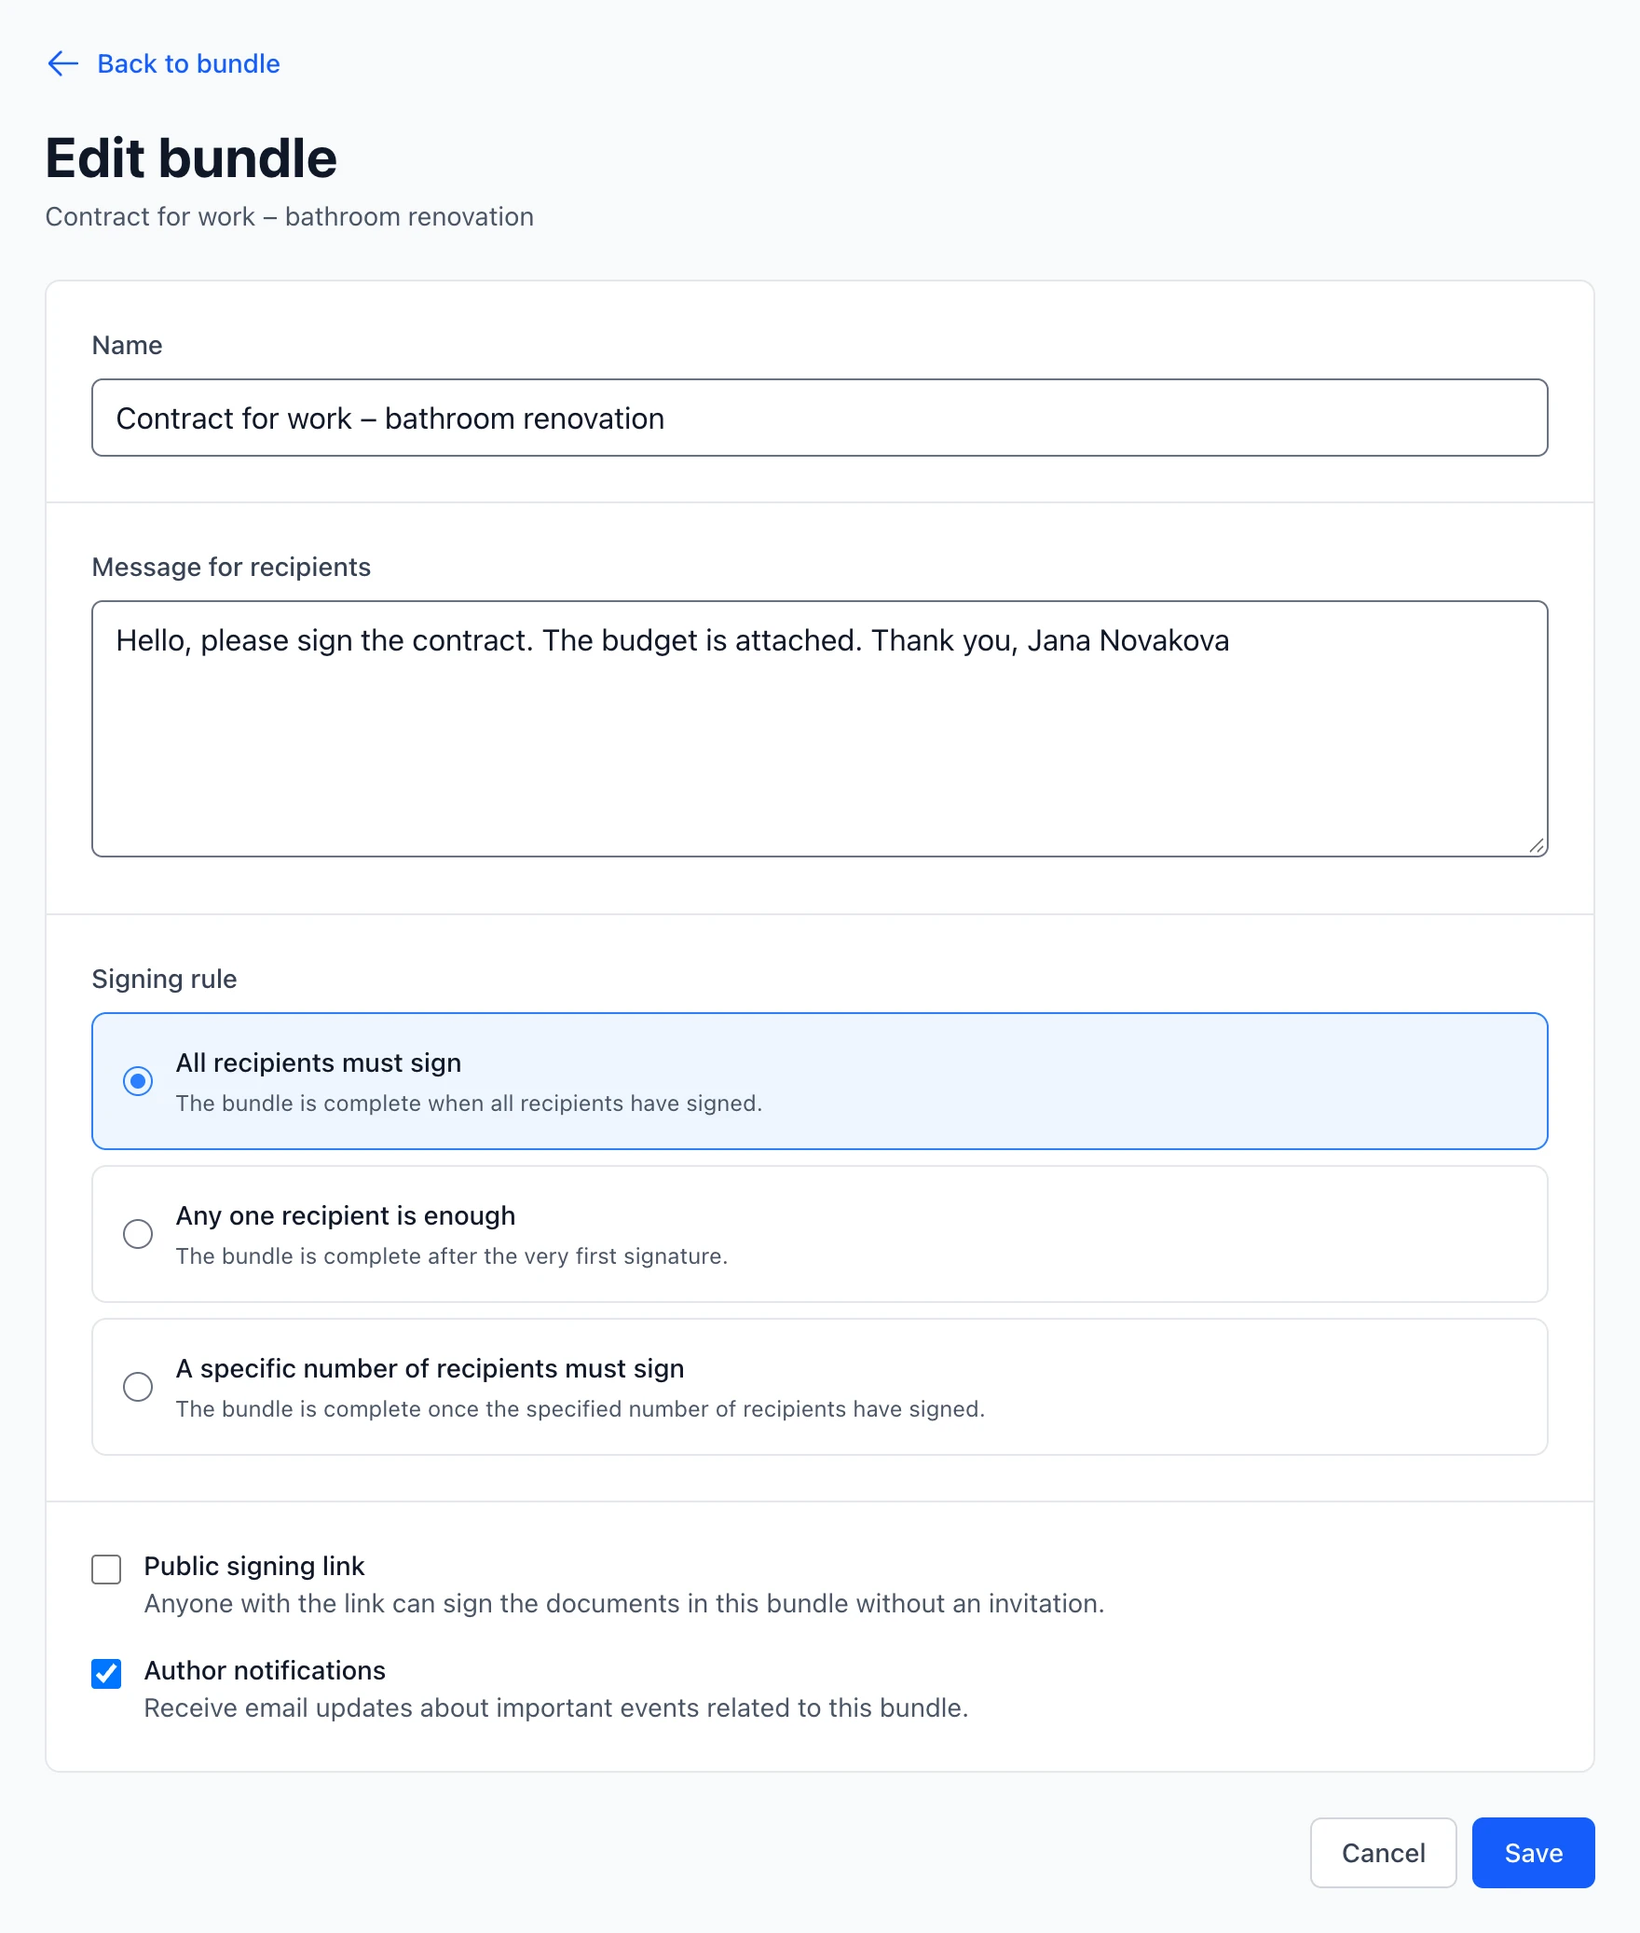
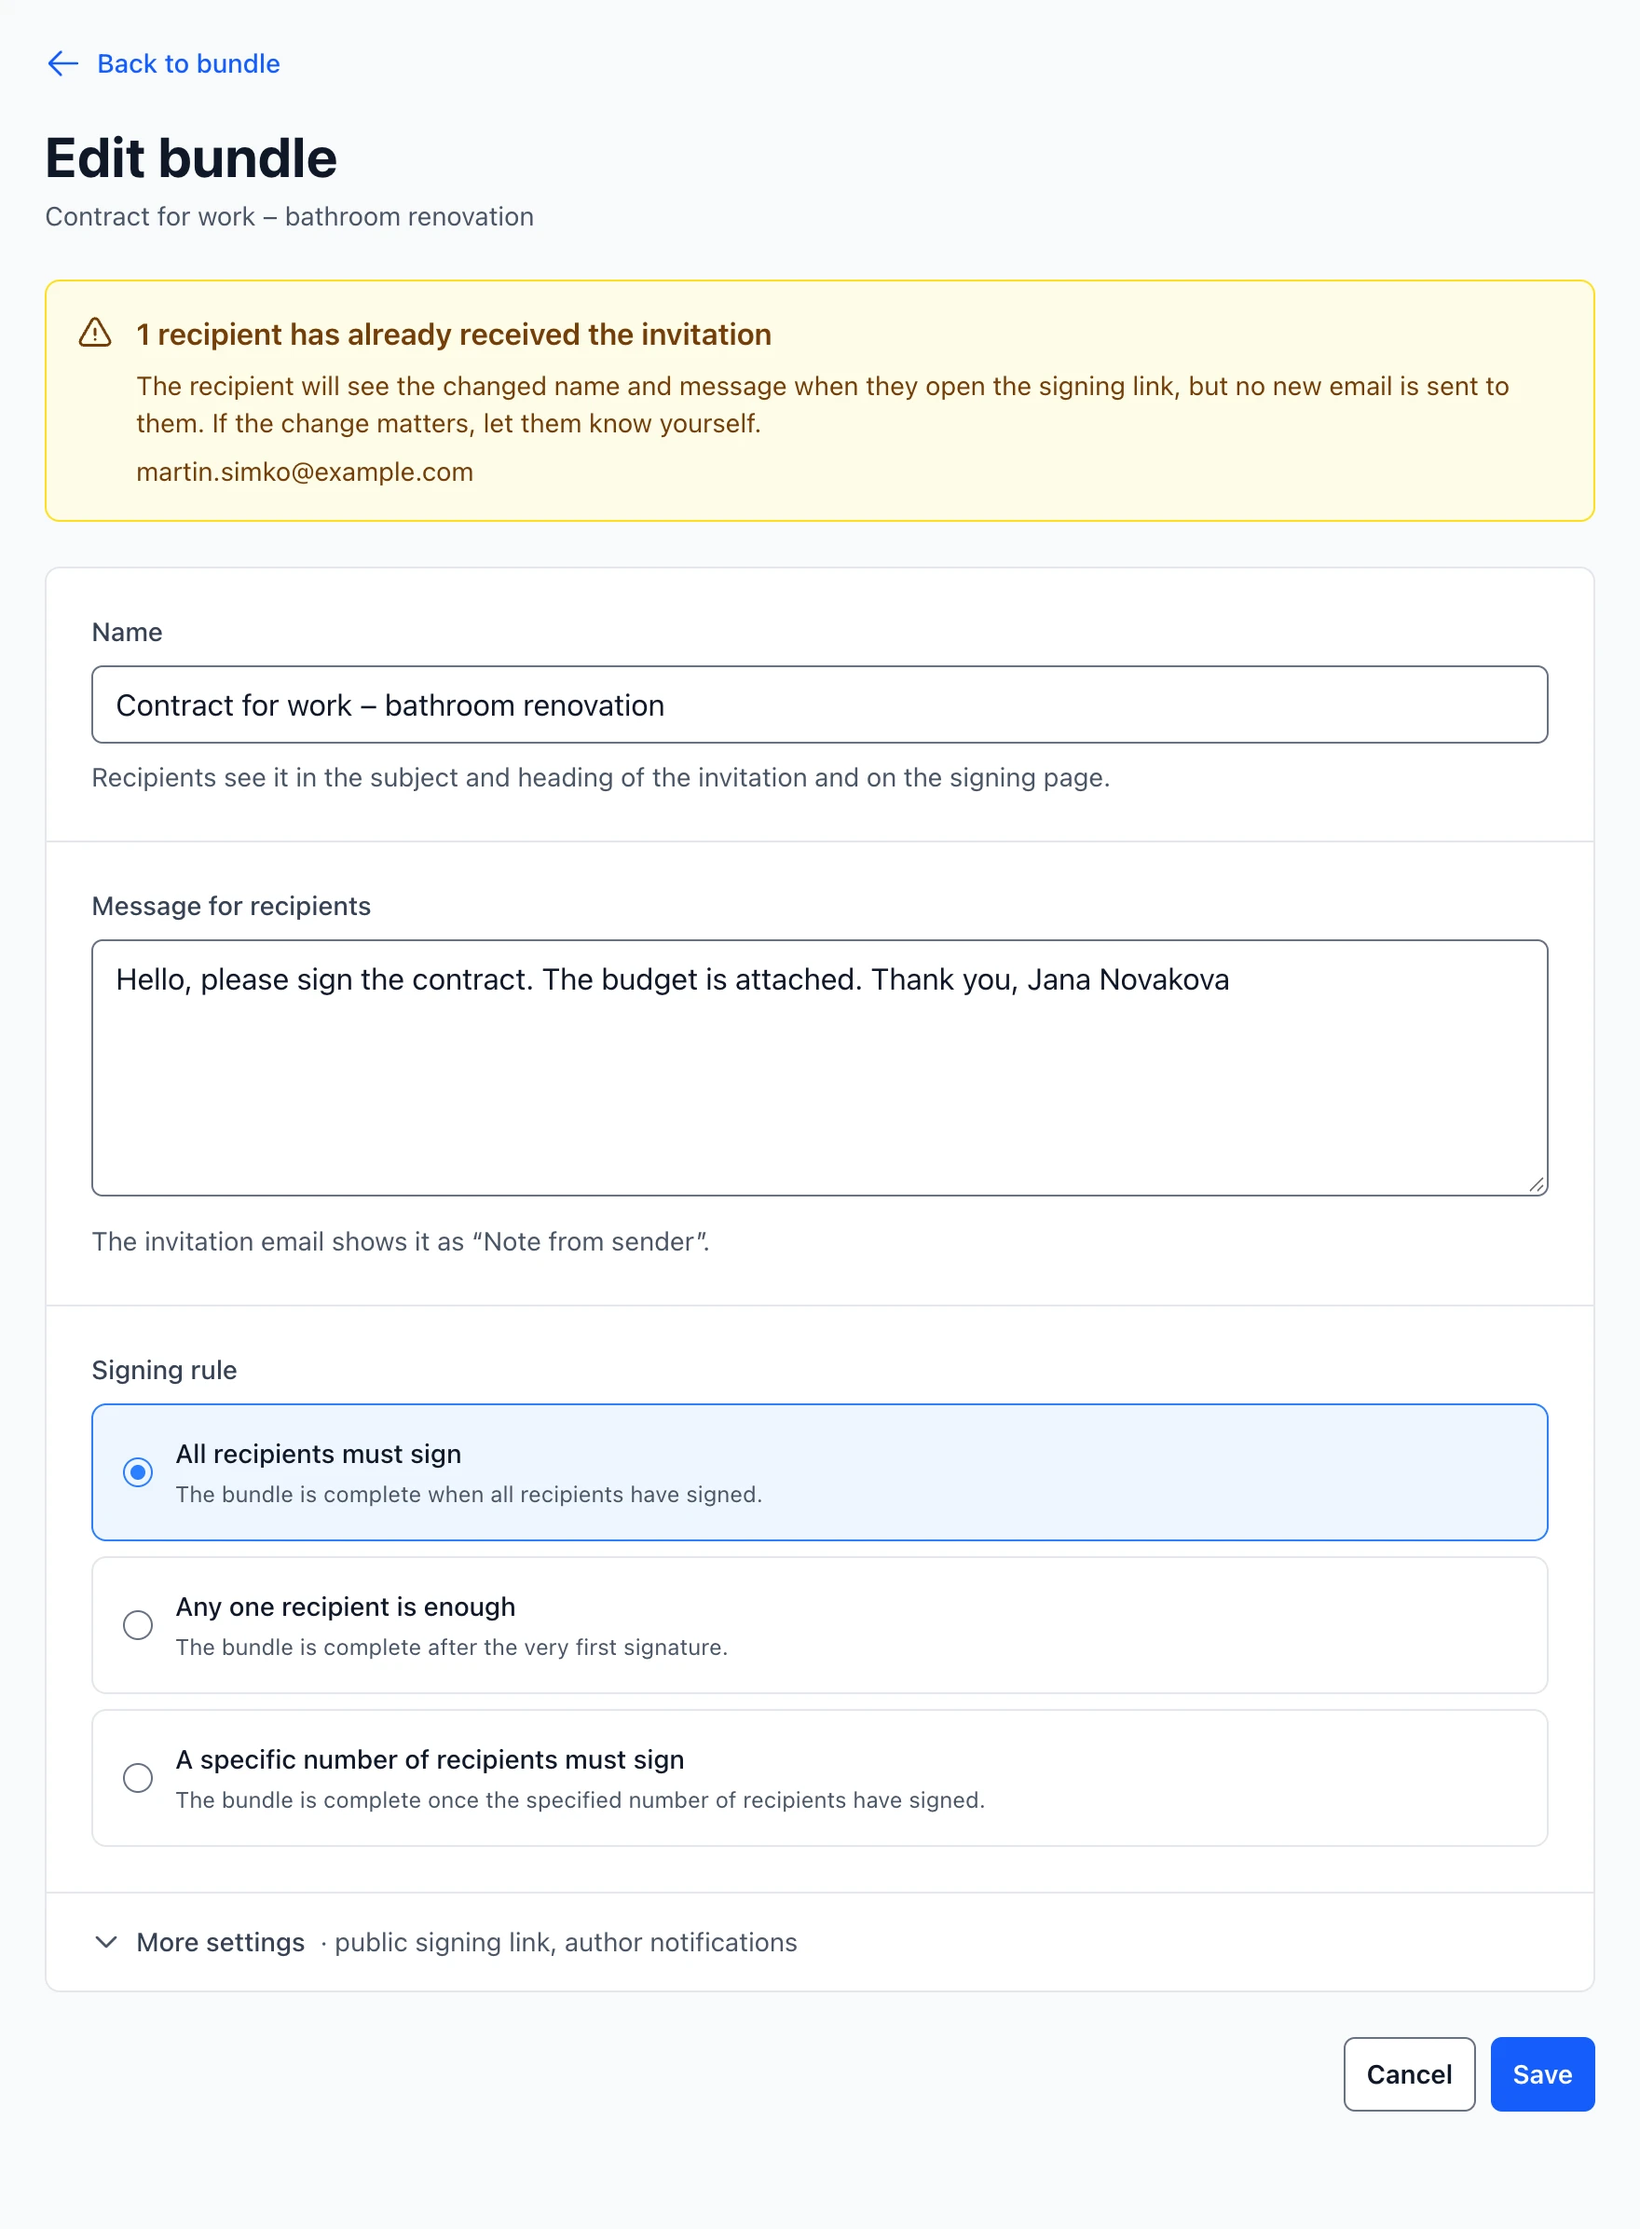
wip

diff --git a/test/controllers/bundles_controller_test.rb b/test/controllers/bundles_controller_test.rb
@@ -65,18 +65,68 @@ class BundlesControllerTest < ActionController::TestCase
 
   test "author can open the edit form" do
     bundle = create_bundle_with_contracts(author: @author, count: 1)
+    bundle.recipients.create!(email: "first@example.com")
+    bundle.recipients.create!(email: "second@example.com")
 
     get :edit, params: { id: bundle.uuid }
 
     assert_response :success
+    assert_select "h1", text: I18n.t("bundles.edit.title")
+    assert_select "a[href=?]", bundle_path(bundle), text: I18n.t("bundles.edit.back")
     assert_select "form[action=?]", bundle_path(bundle) do
       assert_select "input[name='bundle[name]'][placeholder=?]", bundle.display_name
       assert_select "textarea[name='bundle[note]']"
       assert_select "input[type='radio'][name='bundle[signing_rule]']", count: 3
-      assert_select "input[name='bundle[required_signatures]']"
-      assert_select "input[type='checkbox'][name='bundle[publicly_visible]']"
-      assert_select "input[type='checkbox'][name='bundle[author_notifications_enabled]']"
+      assert_select "input[name='bundle[required_signatures]'][max='2']"
+      assert_select "details input[type='checkbox'][name='bundle[publicly_visible]']"
+      assert_select "details input[type='checkbox'][name='bundle[author_notifications_enabled]']"
+      assert_select "input[type='submit'][value=?]", I18n.t("actions.save")
     end
+    assert_select "h2", text: I18n.t("bundles.edit.invited_warning_title", count: 1), count: 0
+  end
+
+  test "edit form of a bundle without recipients prepares it for sending" do
+    bundle = create_bundle_with_contracts(author: @author, count: 1)
+
+    get :edit, params: { id: bundle.uuid }
+
+    assert_response :success
+    assert_select "h1", text: I18n.t("bundles.edit.preparing_title")
+    assert_select "a[href=?]", bundles_path, text: I18n.t("bundles.show.all_bundles")
+    assert_includes response.body, "bundle-contract-0.pdf"
+    assert_select "form[action=?]", bundle_path(bundle) do
+      assert_select "input[name='bundle[name]']"
+      assert_select "textarea[name='bundle[note]']"
+      assert_select "input[name='bundle[signing_rule]']", count: 0
+      assert_select "input[name='bundle[required_signatures]']", count: 0
+      assert_select "input[type='submit'][value=?]", I18n.t("bundles.edit.save_and_add_recipients")
+    end
+  end
+
+  test "edit form offers the signing rule only from two active recipients" do
+    bundle = create_bundle_with_contracts(author: @author, count: 1)
+    bundle.recipients.create!(email: "only@example.com")
+    bundle.recipients.create!(email: "withdrawn@example.com", withdrawn_at: Time.current)
+
+    get :edit, params: { id: bundle.uuid }
+
+    assert_response :success
+    assert_select "h1", text: I18n.t("bundles.edit.title")
+    assert_select "input[name='bundle[signing_rule]']", count: 0
+  end
+
+  test "edit form warns that invited recipients get no new email" do
+    bundle = create_bundle_with_contracts(author: @author, count: 1)
+    bundle.recipients.create!(email: "invited@example.com").notified!
+    bundle.recipients.create!(email: "waiting@example.com")
+
+    get :edit, params: { id: bundle.uuid }
+
+    assert_response :success
+    assert_select "h2", text: I18n.t("bundles.edit.invited_warning_title", count: 1)
+    assert_select "p", text: I18n.t("bundles.edit.invited_warning_description", count: 1)
+    assert_select "p", text: "invited@example.com"
+    assert_not_includes response.body, "waiting@example.com"
   end
 
   test "author can update bundle settings" do

diff --git a/test/integration/signature_request_flows_test.rb b/test/integration/signature_request_flows_test.rb
@@ -35,6 +35,29 @@ class SignatureRequestFlowsTest < ActionDispatch::IntegrationTest
     assert_equal 1, mails_to(@owner.email).count { |m| m.subject == I18n.t("notification_mailer.bundle_completed.subject") }
   end
 
+  test "author names the bundle and writes a message before the invitation goes out" do
+    bundle = request_signature_from_web(as: @owner, filename: "zmluva-o-dielo.pdf")
+
+    follow_redirect!
+    assert_select "h1", text: I18n.t("bundles.edit.preparing_title")
+    assert_select "input[name='bundle[name]'][value=?]", "zmluva-o-dielo"
+    assert_select "input[name='bundle[signing_rule]']", count: 0
+
+    patch bundle_path(bundle), params: { bundle: { name: "Zmluva o dielo – kancelária", note: "Prosím o podpis do piatka." } }
+    assert_redirected_to bundle_path(bundle)
+    recipient = add_recipient(bundle, "external@example.com")
+
+    mail = mails_to("external@example.com").sole
+    assert_equal I18n.t("notification_mailer.signature_requested.subject"), mail.subject
+    assert_includes mail.html_part.body.decoded, "Zmluva o dielo – kancelária"
+    assert_includes mail.html_part.body.decoded, "Prosím o podpis do piatka."
+
+    get edit_bundle_path(bundle)
+    assert_select "h1", text: I18n.t("bundles.edit.title")
+    assert_select "h2", text: I18n.t("bundles.edit.invited_warning_title", count: 1)
+    assert_select "p", text: recipient.display_name
+  end
+
   test "colleague from the same organization signs while signed in and sees the request on both sides" do
     colleague = confirmed_user("colleague@firma-abc.sk", tenant: @organization)
     bundle = request_signature_from_web(as: @owner, filename: "interna.pdf")
@@ -440,7 +463,7 @@ class SignatureRequestFlowsTest < ActionDispatch::IntegrationTest
       contract: { allowed_methods: [ "qes" ], signature_parameters_attributes: { level: "BASELINE_B", format: "PAdES" } }
     }
     bundle = contract.reload.bundle
-    assert_redirected_to bundle_path(bundle)
+    assert_redirected_to edit_bundle_path(bundle)
     assert_equal contract.tenant, bundle.tenant
     bundle
   end

diff --git a/test/controllers/recipients_controller_test.rb b/test/controllers/recipients_controller_test.rb
@@ -208,6 +208,26 @@ class RecipientsControllerTest < ActionController::TestCase
     end
   end
 
+  test "index hides the signing rule while the bundle has a single recipient" do
+    bundles(:one).recipients.create!(email: "only@example.com")
+    bundles(:one).recipients.create!(email: "withdrawn@example.com", withdrawn_at: Time.current)
+
+    get :index, params: { bundle_id: bundles(:one).uuid }
+
+    assert_response :success
+    assert_select "a[href=?]", edit_bundle_path(bundles(:one)), count: 0
+  end
+
+  test "index shows the signing rule with a link to the edit form from two recipients" do
+    bundles(:one).recipients.create!(email: "first@example.com")
+    bundles(:one).recipients.create!(email: "second@example.com")
+
+    get :index, params: { bundle_id: bundles(:one).uuid }
+
+    assert_response :success
+    assert_select "a[href=?][data-turbo-frame='_top']", edit_bundle_path(bundles(:one)), count: 1
+  end
+
   test "index offers the signing link only to recipients who can still sign" do
     pending = bundles(:one).recipients.create!(email: "pending@example.com")
     signed = bundles(:one).recipients.create!(email: "signed@example.com")

diff --git a/test/mailers/notification_mailer_test.rb b/test/mailers/notification_mailer_test.rb
@@ -12,6 +12,17 @@ class NotificationMailerTest < ActionMailer::TestCase
     assert_not_includes body, "<b>Phish</b>"
   end
 
+  test "signature requested names the bundle in the heading" do
+    bundle = create_bundle_with_note("Prosím o podpis do piatka.")
+    bundle.update!(name: "Zmluva o dielo – kancelária")
+
+    mail = NotificationMailer.with(user: users(:two)).signature_requested(bundle)
+
+    assert_equal I18n.t("notification_mailer.signature_requested.subject"), mail.subject
+    assert_includes mail.html_part.body.decoded, "Zmluva o dielo – kancelária</h1>"
+    assert_includes mail.text_part.body.decoded, "Zmluva o dielo – kancelária"
+  end
+
   test "signature withdrawn includes apology and no action link" do
     bundle = create_bundle_with_note("test")
     recipient = bundle.recipients.create!(email: "recipient-#{SecureRandom.hex(6)}@example.com", locale: "en")

diff --git a/app/controllers/contracts_controller.rb b/app/controllers/contracts_controller.rb
@@ -283,8 +283,10 @@ class ContractsController < ApplicationController
     if @contract.update(contract_params)
       @contract.save!
       if params[:next_step] == "request_signature"
-        bundle = Bundle.create!(contracts: [ @contract ], tenant: @contract.tenant, author: current_user, author_notifications_enabled: true)
-        redirect_to bundle
+        bundle = Bundle.create!(contracts: [ @contract ], tenant: @contract.tenant, author: current_user, author_notifications_enabled: true,
+                                name: @contract.display_name.base)
+        # The name and the message go into the invitation, so the author sets them before adding recipients.
+        redirect_to edit_bundle_path(bundle)
       elsif params[:next_step] == "sign"
         redirect_to sign_contract_path(@contract)
       else

diff --git a/test/controllers/contracts_controller_test.rb b/test/controllers/contracts_controller_test.rb
@@ -445,7 +445,9 @@ class ContractsControllerTest < ActionDispatch::IntegrationTest
       contract: { allowed_methods: [ "qes" ] }
     }
 
-    assert_redirected_to contract.reload.bundle
+    bundle = contract.reload.bundle
+    assert_redirected_to edit_bundle_path(bundle)
+    assert_equal "visual-test", bundle.name, "the bundle is named after its document"
     assert_equal [ "qes" ], contract.allowed_methods
   end
 
